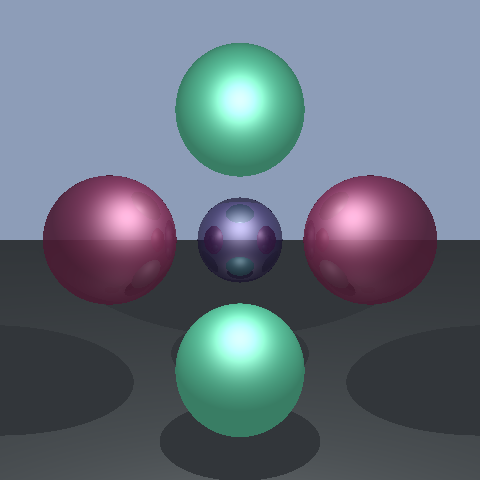
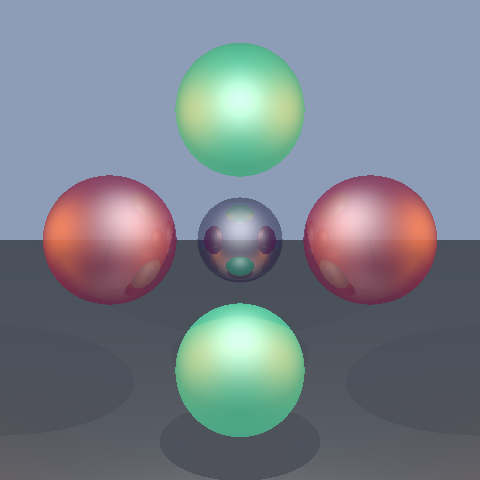
Update images in README

diff --git a/README.md b/README.md
@@ -3,8 +3,9 @@ Reed College, CSCI221 Fall Final Project
 
 <!---![example image](example2.ppm)-->
 <p float="left">
+    <img src="example.png" width="350">
     <img src="example2.png" width="350">
-    <img src="pattern.png" width="350">
+    <img src="transparent.png" width="350">
 </p>
 
 ## Table of Contents
